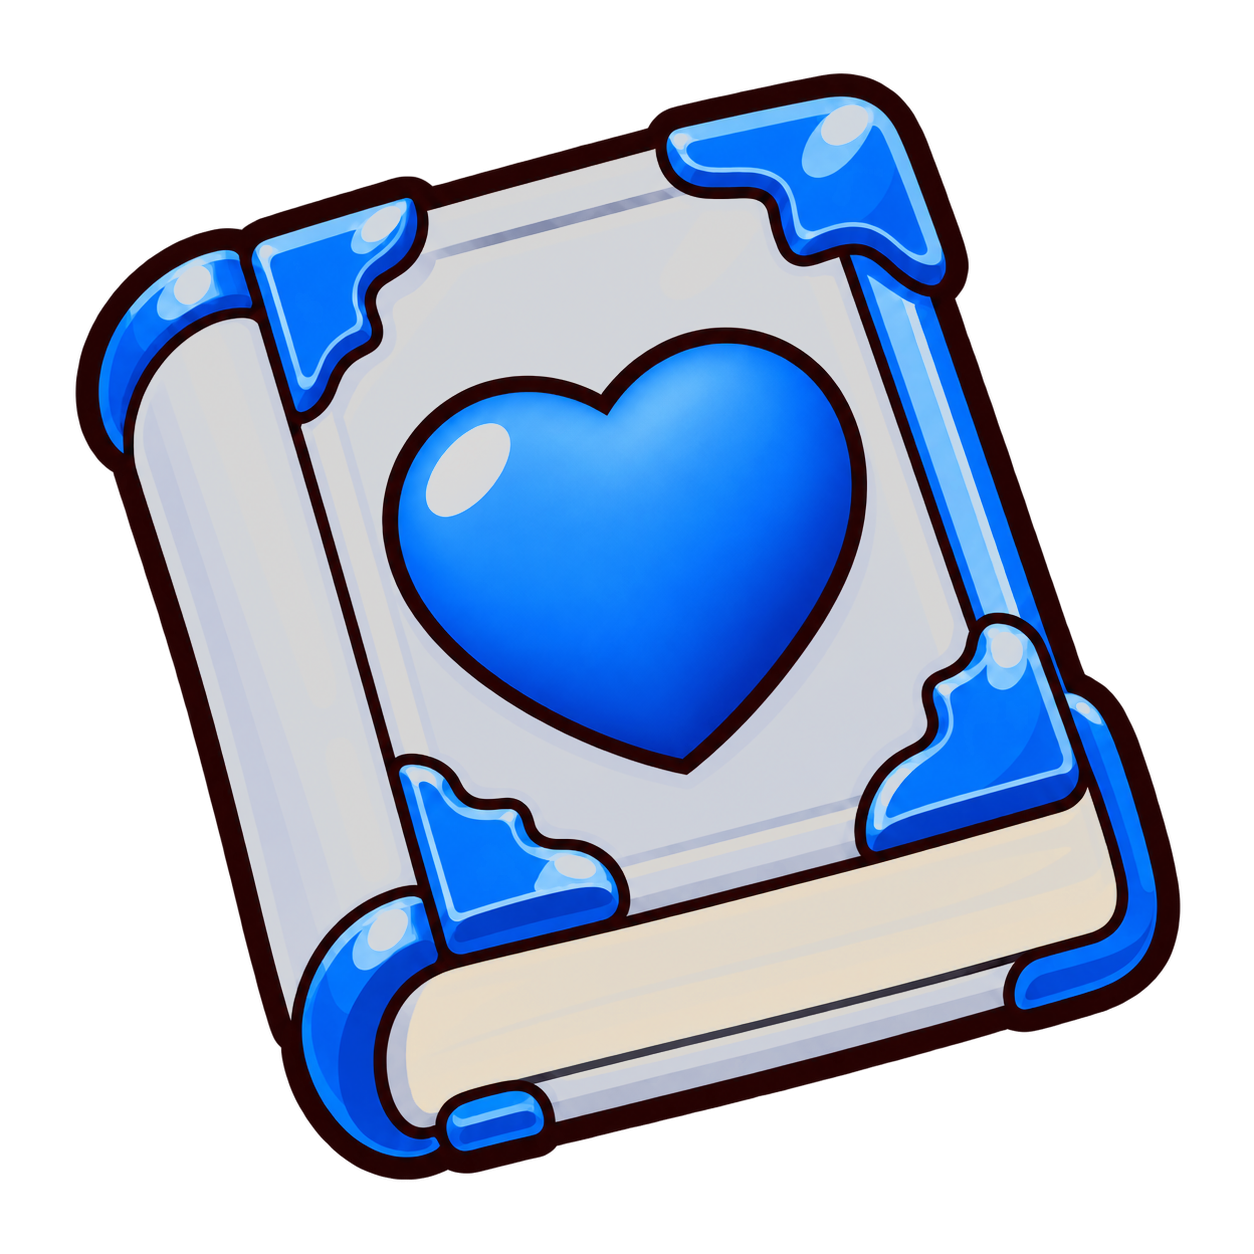
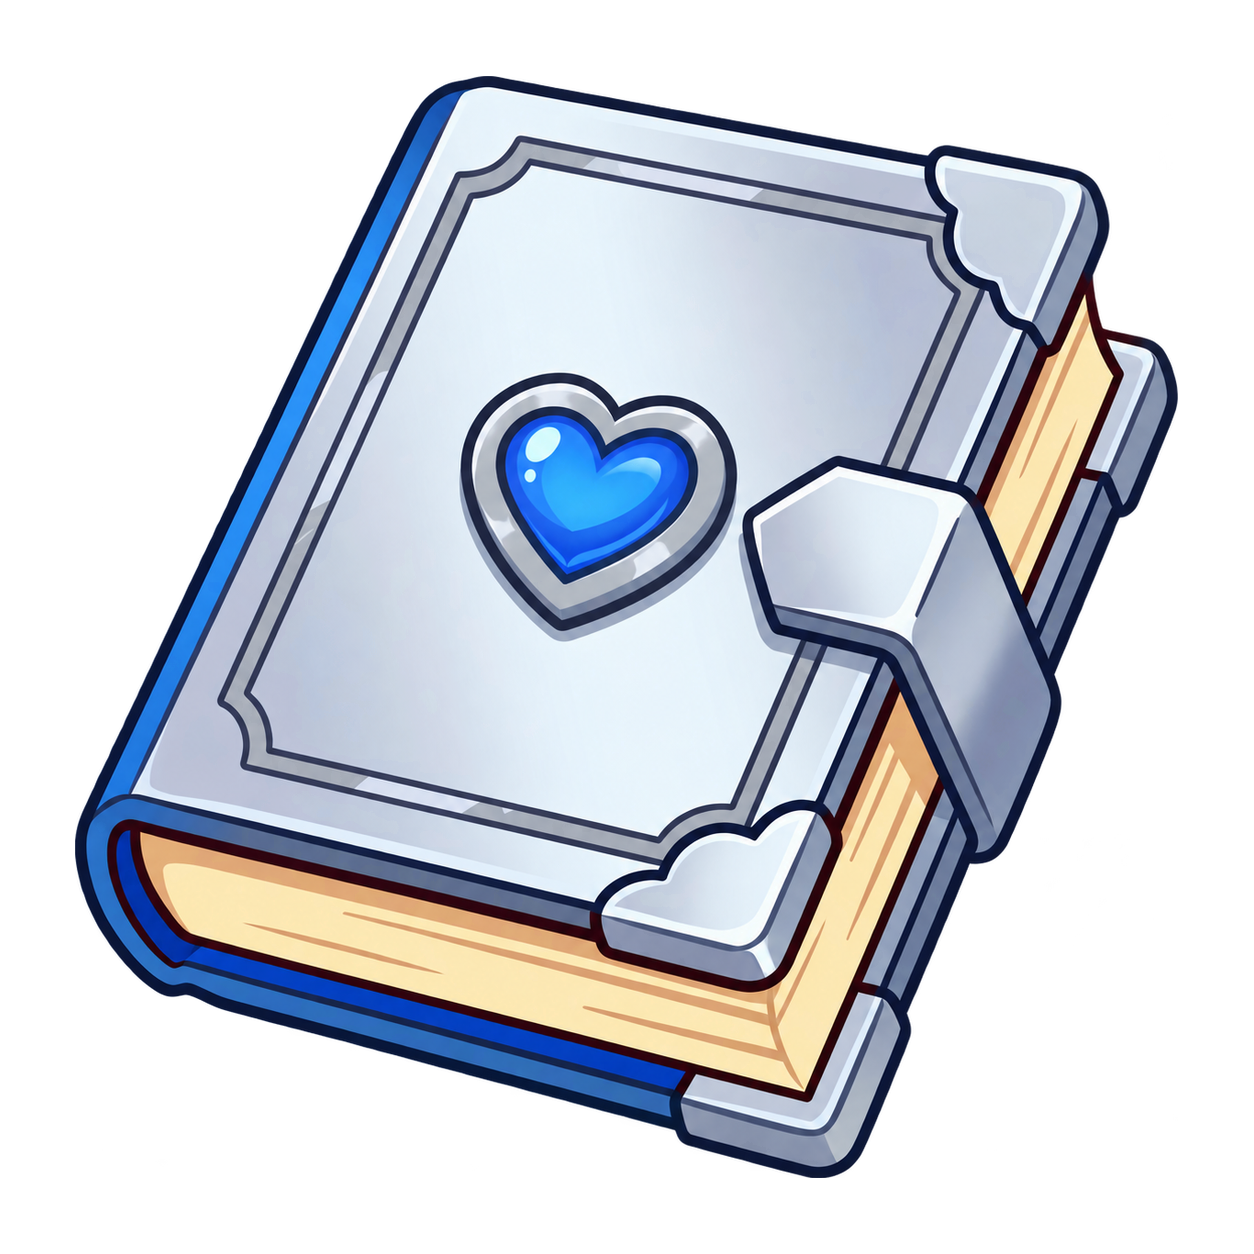
奧林匹亞 demo olympia-holy-37：天使之劍、天使之書、皮帶換新圖
- 天使之劍換銀大劍愛心版（水平翻轉），天使之書換銀魔法書愛心版
- 愛心髮夾換成皮帶（圓形銅扣，對應兩位天使的腰帶）
- 劍與書的調色盤遮罩重產，排除深藍描邊

diff --git a/index.html b/index.html
@@ -247,7 +247,7 @@ canvas { display: block; width: 100%; height: 100%; }
  * 美術：使用者核可卡通素材；2026-10-22 最高分換白鴿、低分換暖色圖示（olympia-holy-2）；羽毛、大地色卷軸、簡化聖盾（olympia-holy-3）；其餘高分沿用既有素材。
  * ========================================================== */
 
-const APP_BUILD = 'olympia-holy-31';   // 驗證用識別值：測到的是不是最新版，看這個
+const APP_BUILD = 'olympia-holy-37';   // 驗證用識別值：測到的是不是最新版，看這個
 const GAME_NAME = '奧林匹亞';
 const LOGO_TEXT = '奧林匹亞', LOGO_SUB = 'OLYMPIA';
 
@@ -300,14 +300,14 @@ let REEL_MODE = DEFAULT_REEL_MODE;
 const SYMBOLS = [
   // 圖示：emoji（＋小配件 sub）或程式繪製（draw）；不顯示名稱。武器副色為金黃，聖物為銀藍。
   { name: '白鴿',       emoji: '🕊', color: '#4f8ec9', tier: 'hi', bg: ['#1e3a5f', '#0b172b'] },   // 最高分：展翅白鴿（2026-10-22）
-  { name: '天使之劍',   emoji: '🗡', color: '#b58b33', tier: 'hi' },   // 15 倍武器組（2026-10-21 天使版圖示）
-  { name: '天使之書',   emoji: '📖', color: '#b58b33', tier: 'hi' },   // 15 倍武器組（2026-10-22 愛心弓箭→僧侶書→天使之書；組名待使用者決定）
+  { name: '天使之劍',   emoji: '🗡', color: '#b58b33', tier: 'hi' },   // 15 倍武器組（2026-10-21 天使版圖示）；2026-10-22 換銀大劍愛心版（嘗試/天使之劍_銀大劍愛心.png，水平翻轉）
+  { name: '天使之書',   emoji: '📖', color: '#b58b33', tier: 'hi' },   // 15 倍武器組（2026-10-22 愛心弓箭→僧侶書→天使之書；組名待使用者決定）；2026-10-22 換銀魔法書愛心版（嘗試/天使之書_銀魔法書愛心.png）
   { name: '聖盾',       emoji: '🛡', color: '#64748b', tier: 'hi' },   // 10 倍聖物組
   { name: '聖水瓶',     emoji: '🧴', color: '#64748b', tier: 'hi' },   // 10 倍聖物組
   { name: '羽毛',       emoji: '🪶', color: '#8a7f6e', tier: 'lo' },   // 低分：土棕灰低飽和（配暖色低分圖示；2026-10-22 橄欖樹枝換羽毛）
   { name: '卷軸',       emoji: '📜', color: '#7c6f5d', tier: 'lo' },
   { name: '蠟燭',       emoji: '🕯', color: '#8b7765', tier: 'lo' },
-  { name: '愛心髮夾',   emoji: '💗', color: '#7a6a58', tier: 'lo' },   // 2026-10-22 雙耳陶瓶換愛心髮夾
+  { name: '皮帶',       emoji: '🪢', color: '#7a6a58', tier: 'lo' },   // 2026-10-22 雙耳陶瓶換愛心髮夾 → 再換皮帶（嘗試/L_皮帶C_歪斜.png 逆轉 27.5° 轉正、圓形銅扣，對應兩位天使的腰帶）
   { name: '小皮靴',     emoji: '👢', color: '#6f6a60', tier: 'lo' },   // 2026-10-22 書本換小皮靴
   { name: '紫十字架',   emoji: '✝', color: '#1d4ed8', wheel: 'blue' },   // 觸發圖示（落地後變藍輪）；程式退回版 emoji ✝（2026-10-22 由寶石之翼換成）
   { name: '金十字架',   emoji: '✝', color: '#7c3aed', wheel: 'gold' },   // 觸發圖示（kind 'gold'＝紅輪）；程式退回版 emoji ✝（2026-10-22 由寶石之翼換成）
@@ -725,7 +725,7 @@ const ICON_META = [
     ['iconGold', '白鴿', 0.5, 2.0, 0.01, { hint: '最高分：白鴿（盤面與賠率表一起套用）' }],
     ['iconHigh', '武器組', 0.5, 2.0, 0.01, { hint: '15 倍武器組：天使之劍／天使之書' }],
     ['iconMid', '聖物組', 0.5, 2.0, 0.01, { hint: '10 倍聖物組：聖盾／聖水瓶' }],
-    ['iconLow', '低分', 0.5, 2.0, 0.01, { hint: '低分 5 個：羽毛／卷軸／蠟燭／愛心髮夾／小皮靴' }],
+    ['iconLow', '低分', 0.5, 2.0, 0.01, { hint: '低分 5 個：羽毛／卷軸／蠟燭／皮帶／小皮靴' }],
     ['iconSix', '十字架', 0.5, 2.0, 0.01, { hint: '金／紫十字架（落地放大 30% 疊在這個之上）' }] ] },
 ];
 function iconTierKey(id) { return id === 0 ? 'iconGold' : id <= 2 ? 'iconHigh' : id <= 4 ? 'iconMid' : id <= 9 ? 'iconLow' : 'iconSix'; }
@@ -1069,7 +1069,7 @@ function syncLayoutDerived() {
  * 區塊 3：美術載入（assets 圖檔優先；缺件時使用程式退回版）
  * ========================================================== */
 const ART = {
-  sym: SYMBOLS.map((s, i) => 'assets/icon_' + i + '.png?v=holy-15'),
+  sym: SYMBOLS.map((s, i) => 'assets/icon_' + i + '.png?v=holy-37'),
   bg:  'assets/bg.png',
   bgFG: 'assets/bg_fg.png',
   frame: 'assets/frame.png',
@@ -1138,8 +1138,8 @@ function loadTintArt() {
   const jobs = [];
   TINT_SLOTS.forEach(t => t.ids.forEach(id => {
     const o = TINT_ART[id] = {};
-    jobs.push(_loadImg('assets/tint/icon_' + id + '_gray.png?v=holy-12').then(im => { o.gray = im; }));
-    jobs.push(_loadImg('assets/tint/icon_' + id + '_mask.png?v=holy-12').then(im => { o.mask = im; }));
+    jobs.push(_loadImg('assets/tint/icon_' + id + '_gray.png?v=holy-37').then(im => { o.gray = im; }));
+    jobs.push(_loadImg('assets/tint/icon_' + id + '_mask.png?v=holy-37').then(im => { o.mask = im; }));
   }));
   return Promise.all(jobs);
 }
@@ -1450,7 +1450,7 @@ function forcedWheels(force) {
   }
   return null;
 }
-// 固定牌型（得分級距測試用，兩個模式都生效）：第 1 輪用 {羽毛,卷軸,蠟燭,愛心髮夾}、第 3 輪起用別的圖示
+// 固定牌型（得分級距測試用，兩個模式都生效）：第 1 輪用 {羽毛,卷軸,蠟燭,皮帶}、第 3 輪起用別的圖示
 // → 除了刻意種的線之外，任何線都湊不到 3 連（結果可重現）
 const LINE_FORCES = {
   small: [[1, 1, 3]],                 // 天使之劍 3 連（第 2 列）＝2 倍：得分數字等級 1，不跑分
